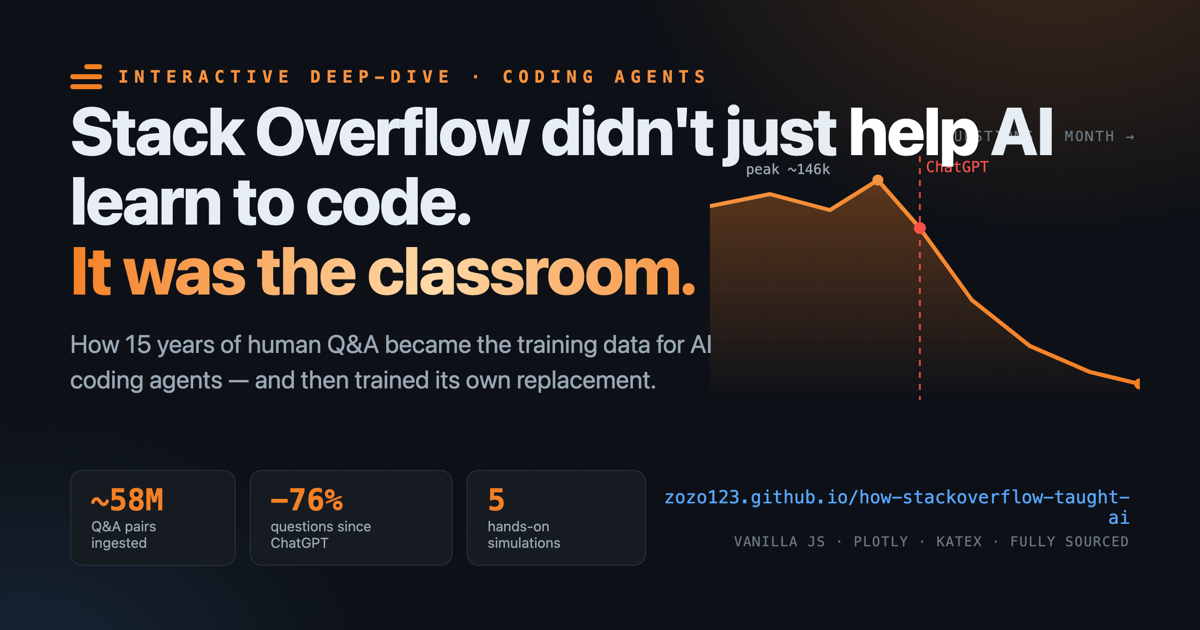
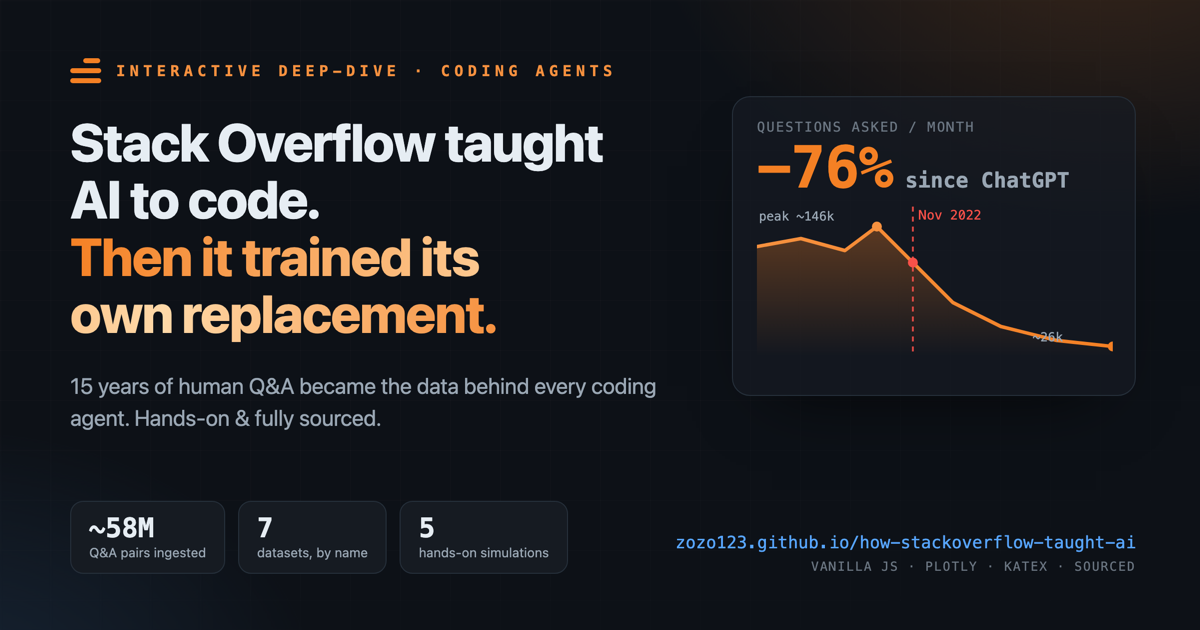
Redesign OG thumbnail: clean two-zone layout, tighter ironic headline, contained data panel, fix clipped subtitle + headline wrap

diff --git a/og.html b/og.html
@@ -9,90 +9,94 @@
     font-family:-apple-system,BlinkMacSystemFont,"Segoe UI",Helvetica,Arial,sans-serif;
     background:#0d1117;color:#e6edf3;position:relative;
     background-image:
-      radial-gradient(720px 520px at 88% -12%, rgba(244,128,36,.22), transparent 60%),
-      radial-gradient(620px 460px at 2% 108%, rgba(88,166,255,.14), transparent 58%);
+      radial-gradient(760px 540px at 92% -16%, rgba(244,128,36,.20), transparent 60%),
+      radial-gradient(640px 480px at -4% 112%, rgba(88,166,255,.13), transparent 58%);
   }
-  /* faint grid */
-  .grid{position:absolute;inset:0;opacity:.5;
-    background-image:linear-gradient(#ffffff08 1px,transparent 1px),linear-gradient(90deg,#ffffff08 1px,transparent 1px);
-    background-size:48px 48px;-webkit-mask-image:linear-gradient(180deg,transparent,#000 40%,#000 70%,transparent)}
-  .pad{position:absolute;inset:0;padding:64px 70px;display:flex;flex-direction:column;justify-content:space-between}
+  .grid{position:absolute;inset:0;opacity:.45;
+    background-image:linear-gradient(#ffffff07 1px,transparent 1px),linear-gradient(90deg,#ffffff07 1px,transparent 1px);
+    background-size:50px 50px;-webkit-mask-image:radial-gradient(120% 120% at 30% 30%,#000 40%,transparent 80%)}
+  .mono{font-family:"SFMono-Regular",ui-monospace,Menlo,monospace}
 
-  .top{display:flex;align-items:center;gap:16px}
+  /* ---- left text column ---- */
+  .L{position:absolute;left:70px;top:58px;width:638px}
+  .top{display:flex;align-items:center;gap:15px;margin-bottom:30px}
   .logo{display:flex;flex-direction:column;gap:5px}
   .logo i{display:block;height:5px;border-radius:3px;background:#f48024}
-  .logo i:nth-child(1){width:18px;margin-left:14px}
-  .logo i:nth-child(2){width:32px}
-  .logo i:nth-child(3){width:32px}
-  .kicker{font-family:"SFMono-Regular",ui-monospace,Menlo,monospace;font-size:17px;letter-spacing:.34em;
-    text-transform:uppercase;color:#f6913f;font-weight:600}
+  .logo i:nth-child(1){width:17px;margin-left:13px}
+  .logo i:nth-child(2){width:31px}
+  .logo i:nth-child(3){width:31px}
+  .kicker{font-size:15px;letter-spacing:.30em;text-transform:uppercase;color:#f6913f;font-weight:600}
+  h1{font-size:53px;line-height:1.08;letter-spacing:-1.3px;font-weight:800}
+  h1 .g{background:linear-gradient(95deg,#f48024,#ffd9a8 60%,#f6913f);-webkit-background-clip:text;background-clip:text;color:transparent}
+  .sub{font-size:22px;color:#9aa7b4;margin-top:28px;line-height:1.45;max-width:600px}
 
-  h1{font-size:67px;line-height:1.04;letter-spacing:-1.6px;font-weight:800;max-width:1060px;margin-top:6px}
-  h1 .g{background:linear-gradient(95deg,#f48024,#ffd9a8 58%,#f6913f);-webkit-background-clip:text;background-clip:text;color:transparent}
-  .sub{font-size:25px;color:#9aa7b4;max-width:720px;margin-top:22px;line-height:1.42}
+  /* ---- right data panel ---- */
+  .R{position:absolute;right:64px;top:96px;width:404px;height:300px;
+    background:rgba(22,27,34,.72);border:1px solid #26303b;border-radius:18px;padding:22px 24px;
+    box-shadow:0 30px 70px -40px rgba(0,0,0,.9)}
+  .R .cap{font-size:13.5px;letter-spacing:.10em;text-transform:uppercase;color:#6b7682}
+  .R .big{font-size:58px;font-weight:800;color:#f48024;line-height:1;margin-top:4px;letter-spacing:-1px}
+  .R .big small{font-size:21px;color:#9aa7b4;font-weight:600;letter-spacing:0}
+  .R svg{margin-top:10px}
 
-  /* decline curve motif (right) */
-  .viz{position:absolute;right:60px;top:150px;width:430px;height:250px}
-  .vlabel{position:absolute;right:64px;top:128px;font-family:"SFMono-Regular",ui-monospace,Menlo,monospace;
-    font-size:14px;color:#6b7682;letter-spacing:.12em;text-transform:uppercase}
-
-  .bottom{display:flex;align-items:center;justify-content:space-between}
-  .chips{display:flex;gap:14px}
-  .chip{background:#161b22;border:1px solid #26303b;border-radius:12px;padding:14px 20px;display:flex;flex-direction:column;gap:3px}
-  .chip .n{font-family:"SFMono-Regular",ui-monospace,Menlo,monospace;font-size:30px;font-weight:800;color:#f48024;line-height:1}
-  .chip .l{font-size:14px;color:#9aa7b4}
-  .url{font-family:"SFMono-Regular",ui-monospace,Menlo,monospace;font-size:18px;color:#58a6ff;text-align:right}
-  .url .s{display:block;color:#6b7682;font-size:13.5px;letter-spacing:.08em;margin-top:6px;text-transform:uppercase}
+  /* ---- bottom row ---- */
+  .B{position:absolute;left:70px;right:64px;bottom:56px;display:flex;align-items:flex-end;justify-content:space-between}
+  .chips{display:flex;gap:13px}
+  .chip{background:#161b22;border:1px solid #26303b;border-radius:13px;padding:13px 18px;display:flex;flex-direction:column;gap:3px}
+  .chip .n{font-size:27px;font-weight:800;color:#e6edf3;line-height:1}
+  .chip .l{font-size:13px;color:#9aa7b4}
+  .url{text-align:right;white-space:nowrap}
+  .url .a{font-size:17px;color:#58a6ff}
+  .url .s{display:block;font-size:12.5px;letter-spacing:.10em;color:#6b7682;margin-top:7px;text-transform:uppercase}
 </style>
 </head>
 <body>
   <div class="grid"></div>
 
-  <!-- decline curve -->
-  <div class="vlabel">questions / month →</div>
-  <svg class="viz" viewBox="0 0 430 250" fill="none">
-    <defs>
-      <linearGradient id="fill" x1="0" y1="0" x2="0" y2="1">
-        <stop offset="0" stop-color="#f48024" stop-opacity="0.34"/>
-        <stop offset="1" stop-color="#f48024" stop-opacity="0"/>
-      </linearGradient>
-      <linearGradient id="stroke" x1="0" y1="0" x2="1" y2="0">
-        <stop offset="0" stop-color="#f6913f"/><stop offset="1" stop-color="#f48024"/>
-      </linearGradient>
-    </defs>
-    <!-- area -->
-    <path d="M0 56 L60 44 L120 60 L168 30 L210 78 L262 150 L320 196 L380 222 L430 234 L430 250 L0 250 Z" fill="url(#fill)"/>
-    <!-- line -->
-    <path d="M0 56 L60 44 L120 60 L168 30 L210 78 L262 150 L320 196 L380 222 L430 234"
-      stroke="url(#stroke)" stroke-width="4" stroke-linejoin="round" stroke-linecap="round"/>
-    <!-- chatgpt marker -->
-    <line x1="210" y1="6" x2="210" y2="250" stroke="#f85149" stroke-width="2" stroke-dasharray="6 6" opacity="0.85"/>
-    <circle cx="210" cy="78" r="6" fill="#f85149"/>
-    <text x="216" y="22" fill="#f85149" font-family="monospace" font-size="15">ChatGPT</text>
-    <circle cx="168" cy="30" r="5.5" fill="#f6913f"/>
-    <text x="36" y="24" fill="#9aa7b4" font-family="monospace" font-size="14">peak ~146k</text>
-    <circle cx="430" cy="234" r="5.5" fill="#f48024"/>
-  </svg>
-
-  <div class="pad">
-    <div>
-      <div class="top">
-        <span class="logo"><i></i><i></i><i></i></span>
-        <span class="kicker">Interactive deep-dive · coding agents</span>
-      </div>
-      <h1>Stack Overflow didn't just <span style="color:#fff">help</span> AI learn to code.<br><span class="g">It was the classroom.</span></h1>
-      <div class="sub">How 15 years of human Q&amp;A became the training data for AI coding agents — and then trained its own replacement.</div>
+  <div class="L">
+    <div class="top">
+      <span class="logo"><i></i><i></i><i></i></span>
+      <span class="kicker mono">Interactive deep-dive · coding agents</span>
     </div>
+    <h1>Stack Overflow taught<br>AI to code.<br><span class="g">Then it trained its<br>own replacement.</span></h1>
+    <div class="sub">15 years of human Q&amp;A became the data behind every coding agent. Hands-on &amp; fully sourced.</div>
+  </div>
 
-    <div class="bottom">
-      <div class="chips">
-        <div class="chip"><span class="n">~58M</span><span class="l">Q&amp;A pairs ingested</span></div>
-        <div class="chip"><span class="n">−76%</span><span class="l">questions since ChatGPT</span></div>
-        <div class="chip"><span class="n">5</span><span class="l">hands-on simulations</span></div>
-      </div>
-      <div class="url">zozo123.github.io/how-stackoverflow-taught-ai
-        <span class="s">vanilla JS · Plotly · KaTeX · fully sourced</span>
-      </div>
+  <div class="R">
+    <div class="cap mono">Questions asked / month</div>
+    <div class="big mono">−76%<small> since ChatGPT</small></div>
+    <svg width="356" height="150" viewBox="0 0 356 150" fill="none">
+      <defs>
+        <linearGradient id="fill" x1="0" y1="0" x2="0" y2="1">
+          <stop offset="0" stop-color="#f48024" stop-opacity="0.32"/>
+          <stop offset="1" stop-color="#f48024" stop-opacity="0"/>
+        </linearGradient>
+        <linearGradient id="stroke" x1="0" y1="0" x2="1" y2="0">
+          <stop offset="0" stop-color="#f6913f"/><stop offset="1" stop-color="#f48024"/>
+        </linearGradient>
+      </defs>
+      <path d="M0 40 L44 32 L88 44 L120 20 L156 56 L196 96 L244 120 L300 134 L356 140 L356 150 L0 150 Z" fill="url(#fill)"/>
+      <path d="M0 40 L44 32 L88 44 L120 20 L156 56 L196 96 L244 120 L300 134 L356 140"
+        stroke="url(#stroke)" stroke-width="3.5" stroke-linejoin="round" stroke-linecap="round"/>
+      <line x1="156" y1="0" x2="156" y2="150" stroke="#f85149" stroke-width="1.8" stroke-dasharray="5 5" opacity="0.9"/>
+      <circle cx="156" cy="56" r="5" fill="#f85149"/>
+      <text x="162" y="13" fill="#f85149" font-family="monospace" font-size="13">Nov 2022</text>
+      <circle cx="120" cy="20" r="5" fill="#f6913f"/>
+      <text x="2" y="14" fill="#9aa7b4" font-family="monospace" font-size="12.5">peak ~146k</text>
+      <circle cx="356" cy="140" r="5" fill="#f48024"/>
+      <text x="276" y="135" fill="#9aa7b4" font-family="monospace" font-size="12.5">~26k</text>
+    </svg>
+  </div>
+
+  <div class="B">
+    <div class="chips">
+      <div class="chip"><span class="n mono">~58M</span><span class="l">Q&amp;A pairs ingested</span></div>
+      <div class="chip"><span class="n mono">7</span><span class="l">datasets, by name</span></div>
+      <div class="chip"><span class="n mono">5</span><span class="l">hands-on simulations</span></div>
+    </div>
+    <div class="url mono">
+      <span class="a">zozo123.github.io/how-stackoverflow-taught-ai</span>
+      <span class="s">vanilla JS · Plotly · KaTeX · sourced</span>
     </div>
   </div>
 </body>